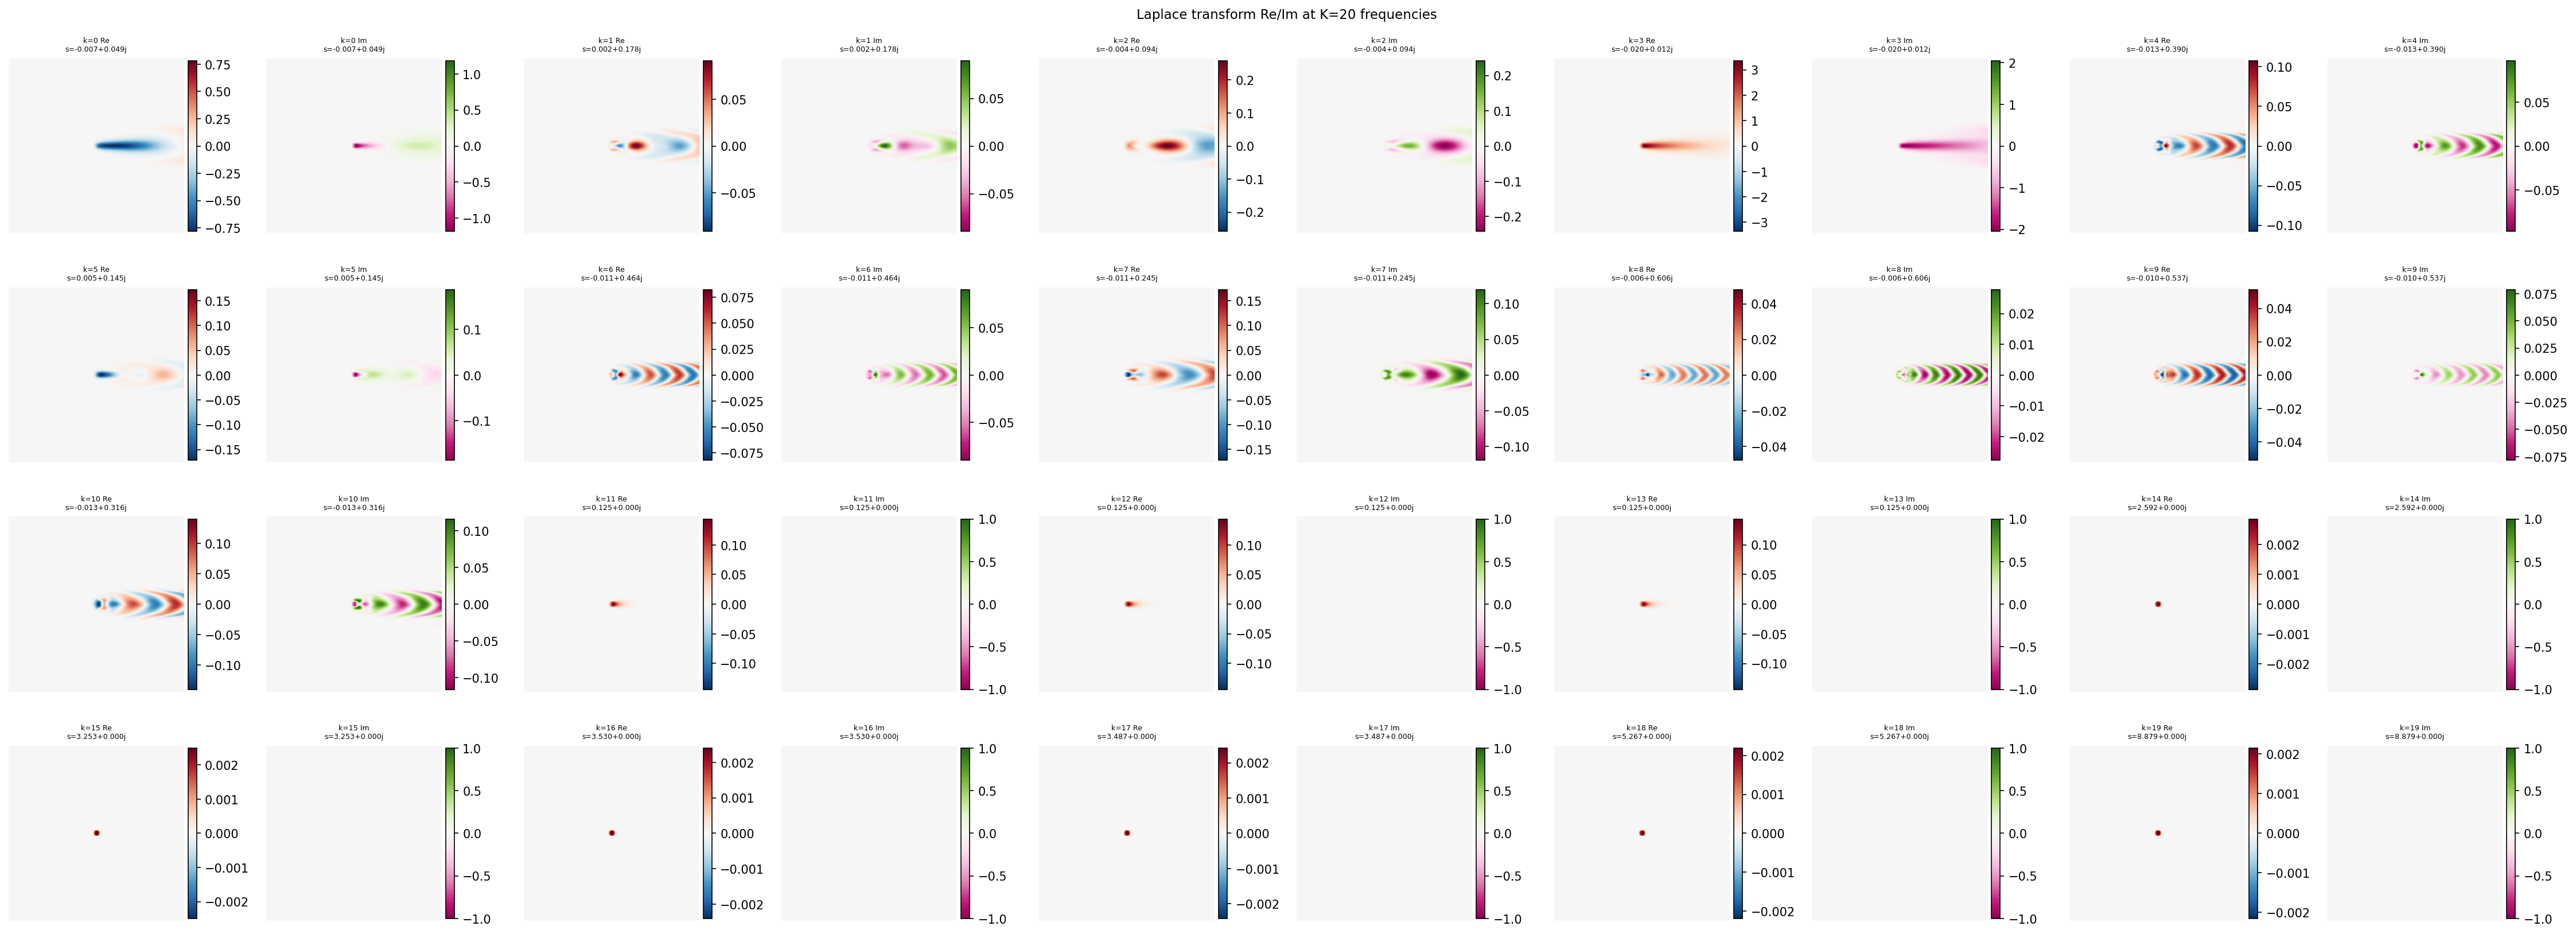
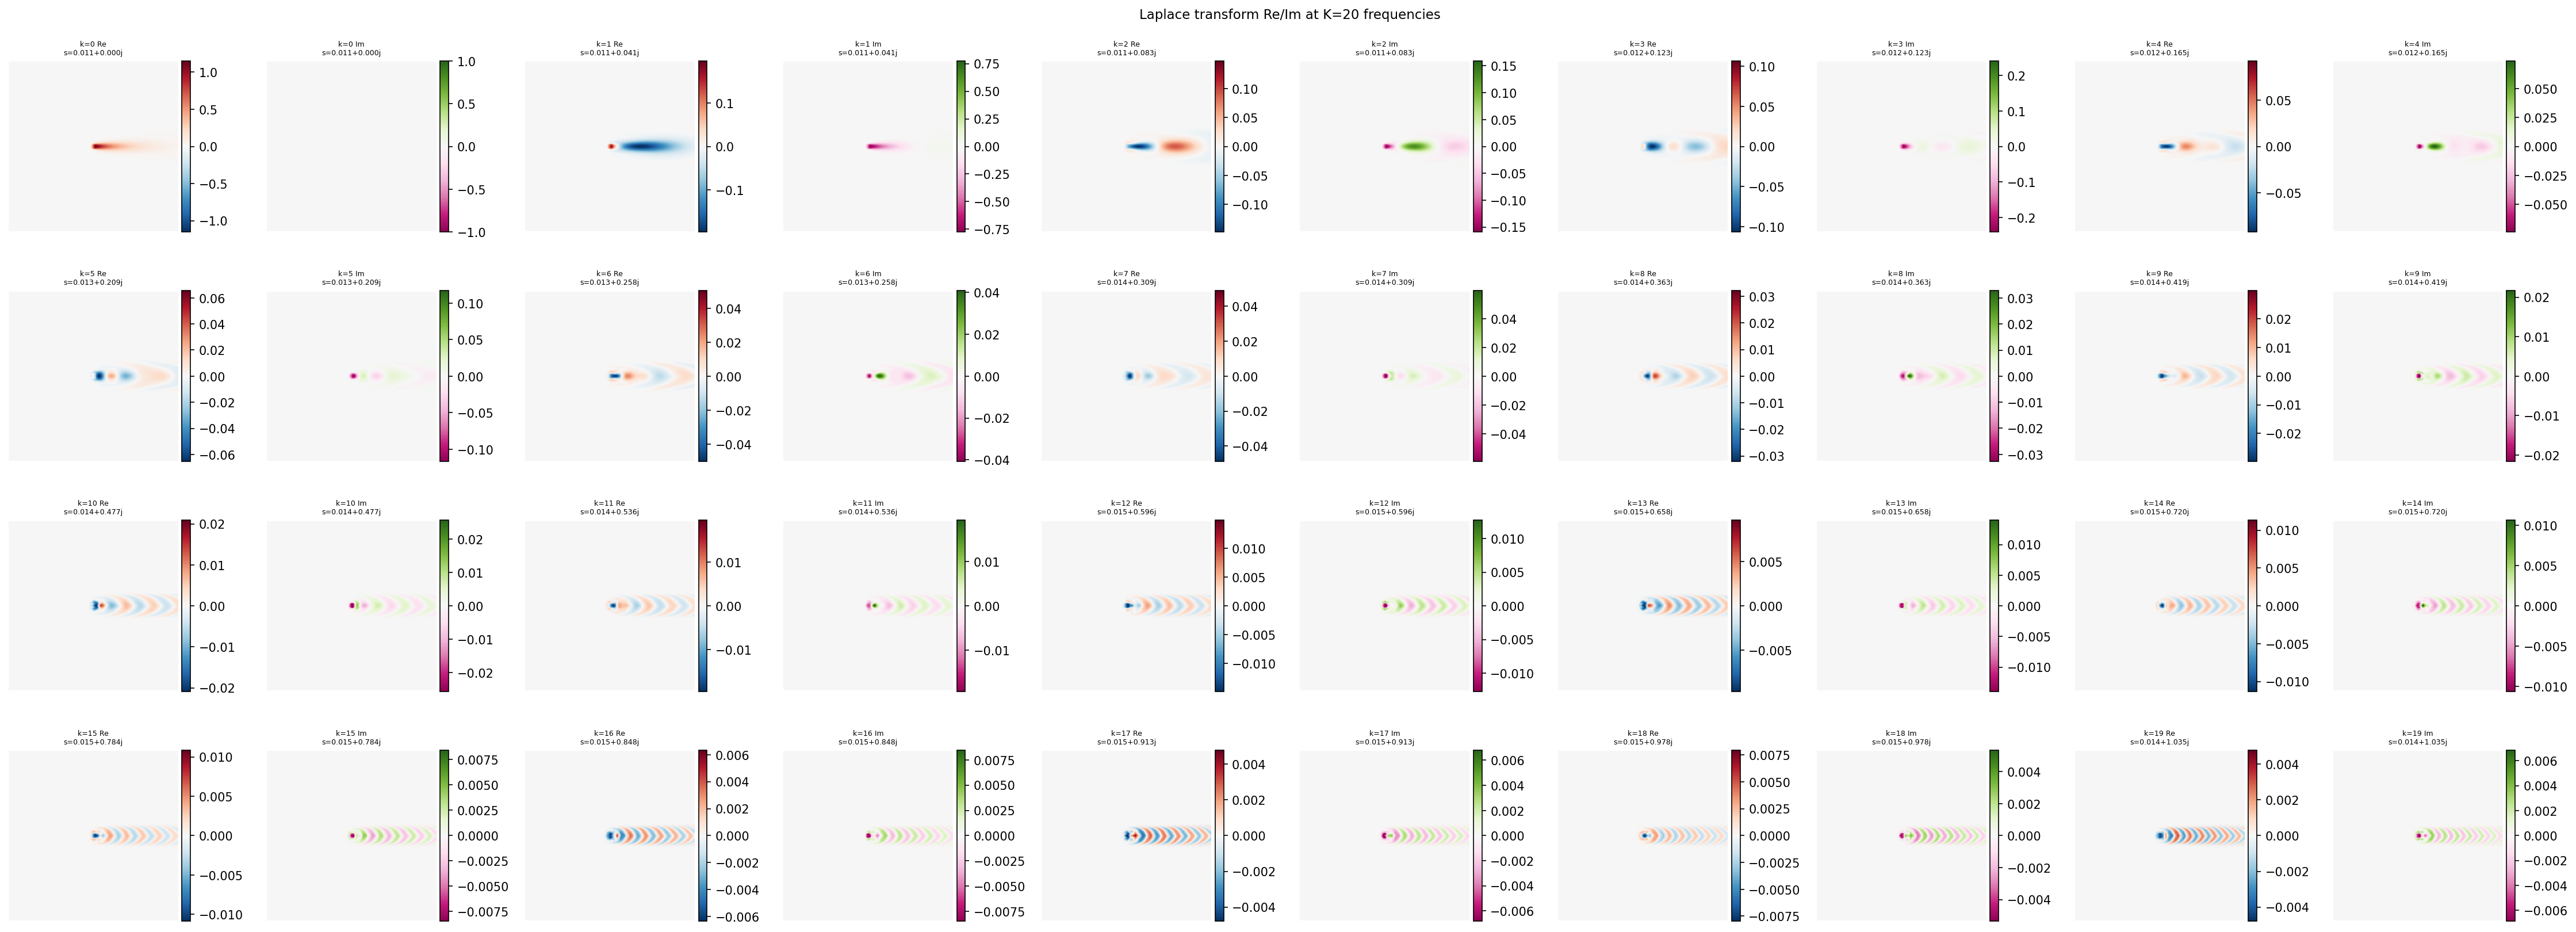
run avec le resultat

diff --git a/transient/laplace_inversion_test.py b/transient/laplace_inversion_test.py
@@ -78,10 +78,10 @@ def path_c_shape(K, R=5.0, center=1.0):
     return s
 
 
-s_list = np.array([-0.0070+0.0485j, 0.0023+0.1779j, -0.0039+0.0938j, -0.0199+0.0116j, -0.0125+0.3900j, 0.0051+0.1447j, -0.0114+0.4638j, -0.0109+0.2446j, -0.0060+0.6059j, -0.0096+0.5372j, -0.0127+0.3164j, 0.1250+0.0000j, 0.1248+0.0000j, 0.1251+0.0000j, 2.5916+0.0000j, 3.2529+0.0000j, 3.5301+0.0000j, 3.4871+0.0000j, 5.2667+0.0000j, 8.8792+0.0000j])
+s_list = np.array([0.0113+0.0000j, 0.0112+0.0414j, 0.0115+0.0825j, 0.0118+0.1235j, 0.0119+0.1653j, 0.0128+0.2093j, 0.0130+0.2576j, 0.0137+0.3091j, 0.0136+0.3634j, 0.0139+0.4193j, 0.0141+0.4766j, 0.0142+0.5358j, 0.0145+0.5961j, 0.0148+0.6576j, 0.0149+0.7204j, 0.0150+0.7840j, 0.0152+0.8483j, 0.0154+0.9132j, 0.0154+0.9775j, 0.0143+1.0348j])
 
-alpha_t = 0.1
-lam     = 0.05
+alpha_t = 0.028
+lam     = 0.078
 
 
 # ---------------------------------------------------------------------------